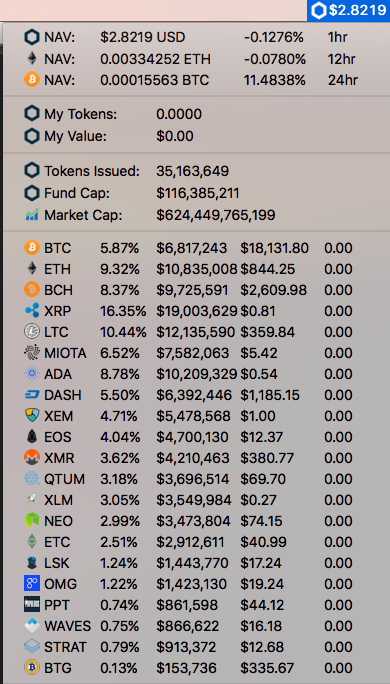
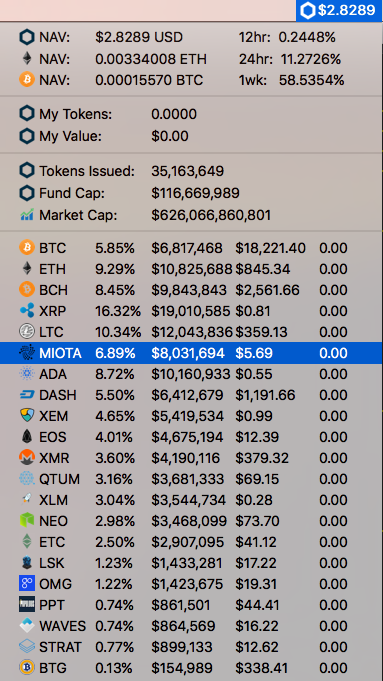
updated

Changed region(s): [[0.0, 0.0, 1.0, 1.0], [0.2298, 0.0308, 0.5457, 0.1233]]

diff --git a/c20.py b/c20.py
@@ -133,13 +133,13 @@ print '${:.4f}| templateImage={}'.format(net_asset_value, symbol_image_map['C20'
 print '---'
 
 # print nav, value of your coins, and total fund value
-print 'NAV:\t${:.4f} USD \t\t {:.4f}%\t 1hr | href=https://crypto20.com/en/portal/performance/ image={}'.format(net_asset_value, c20_movement_result['1h'],
+print 'NAV:\t${:.4f} USD \t\t 12hr:  {:.4f}%| href=https://crypto20.com/en/portal/performance/ image={}'.format(net_asset_value, c20_movement_result['12h'],
                                                                                              symbol_image_map['C20'])
 
 # print nav in ETH and BTC with separator
-print 'NAV:\t{:.8f} ETH \t {:.4f}%\t 12hr | href=https://crypto20.com/en/portal/performance/ image={}'.format(nav_eth, c20_movement_result['12h'],
+print 'NAV:\t{:.8f} ETH \t 24hr:  {:.4f}% | href=https://crypto20.com/en/portal/performance/ image={}'.format(nav_eth, c20_movement_result['24h'],
                                                                                             symbol_image_map['ETH'])
-print 'NAV:\t{:.8f} BTC \t {:.4f}%\t 24hr | href=https://crypto20.com/en/portal/performance/ image={}'.format(nav_btc, c20_movement_result['24h'],
+print 'NAV:\t{:.8f} BTC \t 1wk:   {:.4f}% | href=https://crypto20.com/en/portal/performance/ image={}'.format(nav_btc, c20_movement_result['1w'],
                                                                                             symbol_image_map['BTC'])
 print '---'
 
